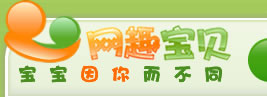
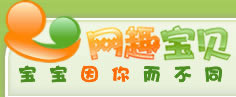
fix bugs

diff --git a/css/index.css b/css/index.css
@@ -25,8 +25,8 @@ body{width:1000px; margin: 0 auto;  background:url(/images/index/img_pg.jpg) rep
 
 
 #top_menu{width:995px; height:103px; margin-left:5px; margin-top:10px;  float:left; display:inline;}
-#menu_left{width:267px; height:97px; margin-top:6px; font-size:0px; line-height:0px; background:url(/images/index/top.jpg) no-repeat; float:left; display:inline;}
-#menu_center{width:672px; height:103px; background:url(/images/index/top_pg_a_center.jpg) repeat-x;  float:left; display:inline;}
+#menu_left{width:236px; height:97px; margin-top:6px; font-size:0px; line-height:0px; background:url(/images/index/top.jpg) no-repeat; float:left; display:inline; overflow:hi}
+#menu_center{width:702px; height:103px;  background:url(/images/index/top_pg_a_center.jpg) repeat-x;  float:left; display:inline;}
 #menu_right{width:40px; height:103px; background:url(/images/index/top_pg_a_right.jpg) no-repeat;  float:left; display:inline;}
 
 #flash{width:965px; height:410px; margin-top:11px; overflow:hidden; float:left; display:inline;}

diff --git a/index.php b/index.php
@@ -37,7 +37,15 @@
 	</div>
 	<div id="top_menu">
 			<div id="menu_left"></div>
-			<div id="menu_center"></div>
+			<div id="menu_center">
+				<div id="menu_flash" style="margin-top:-5px;">
+				</div>
+				<script type="text/javascript">
+					var flashvar = {defaultIndex:'1'};
+					var flashparam = {wmode:'Transparent'};
+					swfobject.embedSWF("flash/menu.swf","menu_flash","702","103","8",false,flashvar,flashparam);
+				</script>
+			</div>
 			<div id="menu_right"></div>
 	</div>
 	<div id="fbody">
